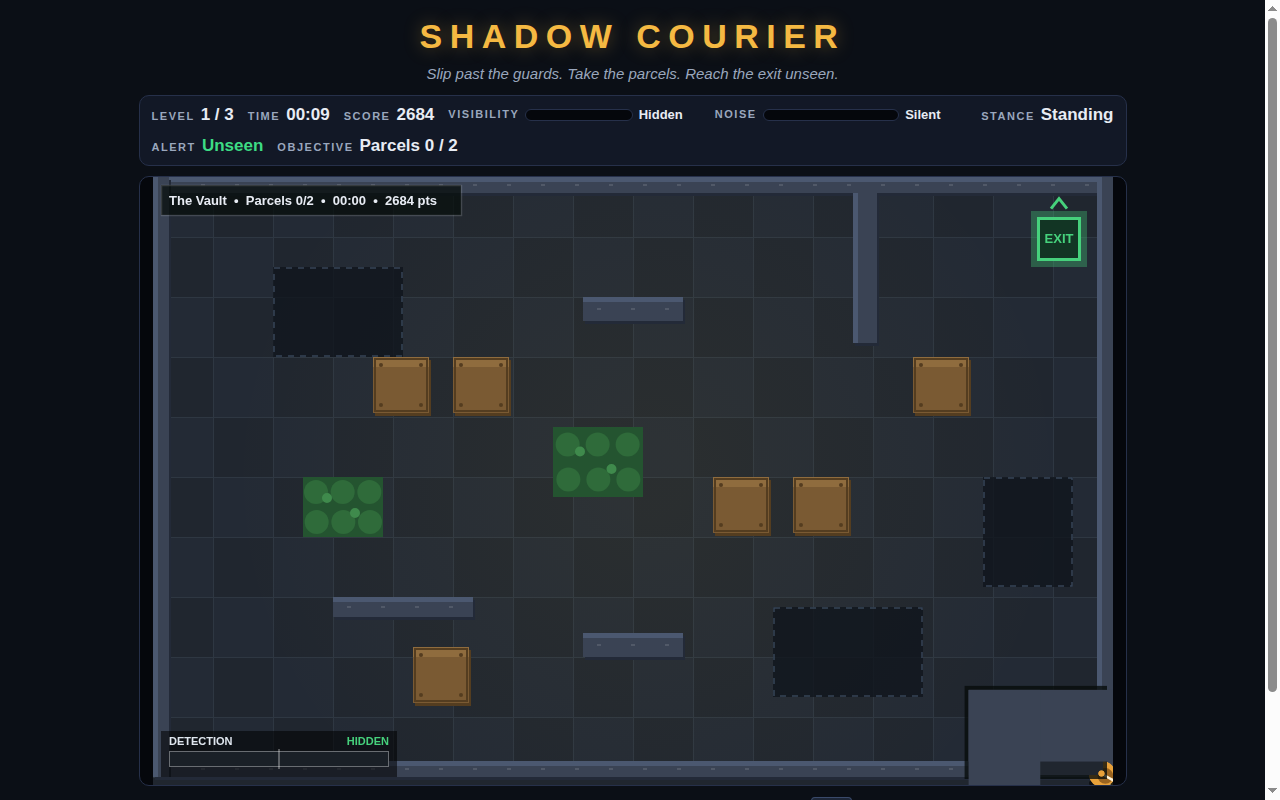
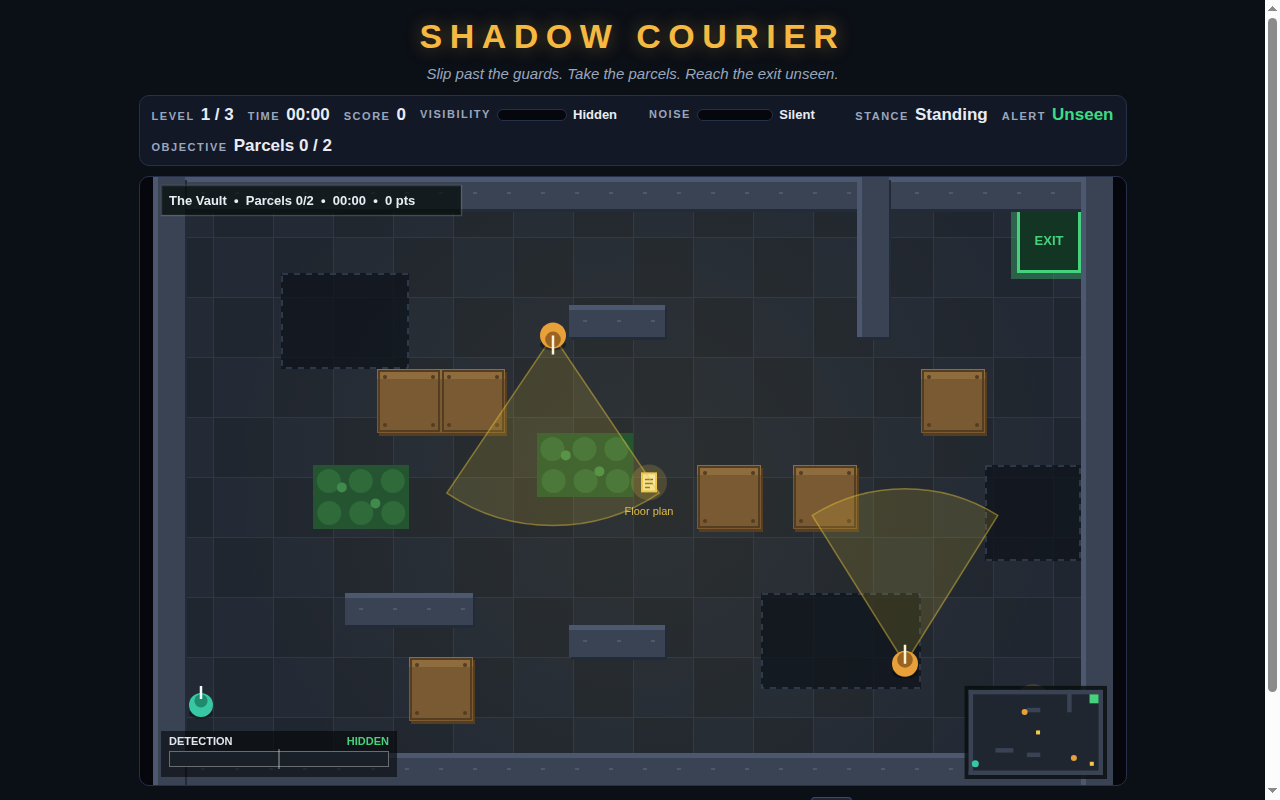
Apply FX2 render/main fixes and retake all 4 screenshots
- Tile-unit coordinate fixes in game/src/render.js and game/src/main.js
- Re-captured screenshots 01-overview, 02-hidden, 03-alert, 04-win (1280x800)
- Play-tested SUBMITTABLE (PT round 2); only cosmetic F6 minor remains

diff --git a/game/src/main.js b/game/src/main.js
@@ -312,7 +312,16 @@ export async function boot() {
       const node = el(id);
       if (node) node.textContent = text;
     };
-    setText('level-complete-sub', `${game.levelName} cleared — unseen.`);
+    // F7 fix: "unseen" is only true when the run was never spotted.
+    // Word the sub-line from runSpotted so a spotted clear never
+    // claims to be unseen.
+    const spottedWord =
+      runSpotted === 0
+        ? `${game.levelName} cleared — unseen.`
+        : runSpotted === 1
+          ? `${game.levelName} cleared — spotted 1 time.`
+          : `${game.levelName} cleared — spotted ${runSpotted} times.`;
+    setText('level-complete-sub', spottedWord);
     setText('level-complete-time', formatTime(game.time));
     setText('level-complete-score', String(game.score));
     setText('level-complete-spotted', String(runSpotted));
@@ -336,7 +345,10 @@ export async function boot() {
     setText('caught-sub', game.statusReason || "A guard's lamp found you.");
     setText('caught-level', String(levelIndex + 1));
     setText('caught-score', String(game.score));
-    setText('caught-time', formatTime(totalTime + game.time));
+    // F5 fix: onCaught() already folded this level's time into
+    // totalTime before calling fillCaught(), so adding game.time
+    // again here doubled the displayed time (00:05 became 00:10).
+    setText('caught-time', formatTime(totalTime));
   }
 
   function onLevelComplete() {
@@ -498,9 +510,27 @@ export async function boot() {
       const guard = game.guards[0];
       const p = game.player;
       if (guard) {
-        const ahead = 90;
-        p.x = guard.x + Math.cos(guard.dir) * ahead;
-        p.y = guard.y + Math.sin(guard.dir) * ahead;
+        // F3 fix: the old shot put the player 90 px ahead of a chasing
+        // guard at detection 0.75, so the guard closed the gap and the
+        // run was already 'caught' <1 s later — no alert frame could
+        // ever be captured. Three changes make the shot stable:
+        //   1. the player stands ~150 px ahead, nudged sideways out of
+        //      the bush, so the guard's red cone still reaches them
+        //      but the gap is wider;
+        //   2. detection stays 0.75 in 'chase' so the HUD reads
+        //      Hunted / Exposed, exactly the alert moment;
+        //   3. game.shotHold freezes the simulation (the frame loop
+        //      skips updateGame while it is set) so the guard cannot
+        //      move, the meter cannot fill and the run cannot flip to
+        //      'caught' while the screenshot is taken. startLevel()
+        //      builds a fresh game object, so the hold never leaks
+        //      into normal play.
+        const ahead = 150;
+        const side = 80;
+        const px = guard.x + Math.cos(guard.dir) * ahead - Math.sin(guard.dir) * side;
+        const py = guard.y + Math.sin(guard.dir) * ahead + Math.cos(guard.dir) * side;
+        p.x = px;
+        p.y = py;
         p.crouched = false;
         crouchLatch = false;
         guard.state = 'chase';
@@ -508,6 +538,7 @@ export async function boot() {
         guard.lastSeen = { x: p.x, y: p.y };
         guard.loseTimer = 0;
         game.visibility = 0.75;
+        game.shotHold = true;
       }
       return 'alert';
     }
@@ -524,9 +555,34 @@ export async function boot() {
       return 'caught';
     }
     if (name === 'win') {
+      // F4 fix: the old helper only flipped the screen to 'win', so
+      // the overlay ("GHOST RUN COMPLETE / Nobody saw a thing") sat
+      // over a HUD that still read Hunted / Exposed with 0/2 parcels
+      // and a guard mid-chase behind it. Rebuild a clean ghost run
+      // from level 1 first, then stage it as a completed win: every
+      // parcel collected, every guard back on patrol with an empty
+      // detection meter, visibility 0, and runSpotted 0 so the win
+      // screen's "Times spotted 0" agrees with "Nobody saw a thing".
+      // The player stands at the exit they just slipped through.
+      startLevel(0);
+      for (const item of game.intel) item.taken = true;
+      game.intelCollected = game.intelTotal;
+      for (const guard of game.guards) {
+        guard.state = 'patrol';
+        guard.detection = 0;
+        guard.lastSeen = null;
+        guard.loseTimer = 0;
+        guard.lookTimer = 0;
+        guard.suspicionPoint = null;
+      }
+      game.visibility = 0;
+      game.flash = 0;
+      game.spotted = 0;
+      runSpotted = 0;
+      game.player.x = game.exit.x + game.exit.w / 2;
+      game.player.y = game.exit.y + game.exit.h / 2;
       totalScore = game.score + 1200;
       totalTime += game.time;
-      runSpotted += game.spotted;
       game.score = totalScore;
       game.status = 'level-complete';
       screen = 'win';
@@ -579,7 +635,10 @@ export async function boot() {
     const elapsed = Math.min(0.25, (now - last) / 1000);
     last = now;
     handleGlobalKeys();
-    if (screen === 'playing') {
+    // F3: a shot state may freeze the simulation (game.shotHold) so a
+    // staged alert frame stays put for the screenshot; rendering and
+    // the HUD still update every frame. Normal play never sets it.
+    if (screen === 'playing' && !game.shotHold) {
       // Stance: holding Shift sneaks, and C toggles a sneak latch.
       game.player.crouched = crouchLatch || input.sneakHeld();
       accumulator += elapsed;

diff --git a/game/src/render.js b/game/src/render.js
@@ -109,11 +109,26 @@ export function renderGame(ctx, game, screen) {
   // not transparent page background.
   ctx.fillStyle = '#20262f';
   ctx.fillRect(0, 0, game.w, game.h);
-  // drawLevelBase draws floor, shadows, bushes, intel, exit, crates and
-  // walls from the level data — but it would draw already-taken parcels,
-  // so pass it the level with only the parcels still on the floor.
+  // F1 fix: art.js draws in raw PIXEL units, but game.levelDef stores
+  // geometry in TILE units (30x19 tiles, TILE=32). Passing the raw
+  // levelDef made every wall/crate/shadow/bush/exit draw ~32x too
+  // small, clustered in the top-left corner — invisible in practice.
+  // The engine already converted the level to pixels when it built
+  // the game (game.walls, game.crates, game.bushes, game.shadows,
+  // game.exit, game.intel), so hand drawLevelBase that converted
+  // pixel geometry instead of the tile-format definition. Intel is
+  // still filtered to the parcels remaining on the floor.
   const remaining = game.intel.filter((item) => !item.taken);
-  drawLevelBase(ctx, { ...game.levelDef, intel: remaining }, time);
+  const pixelLevel = {
+    ...game.levelDef,
+    walls: game.walls,
+    crates: game.crates,
+    bushes: game.bushes,
+    shadows: game.shadows,
+    exit: game.exit,
+    intel: remaining,
+  };
+  drawLevelBase(ctx, pixelLevel, time);
 
   for (const guard of game.guards) {
     drawVisionCone(
